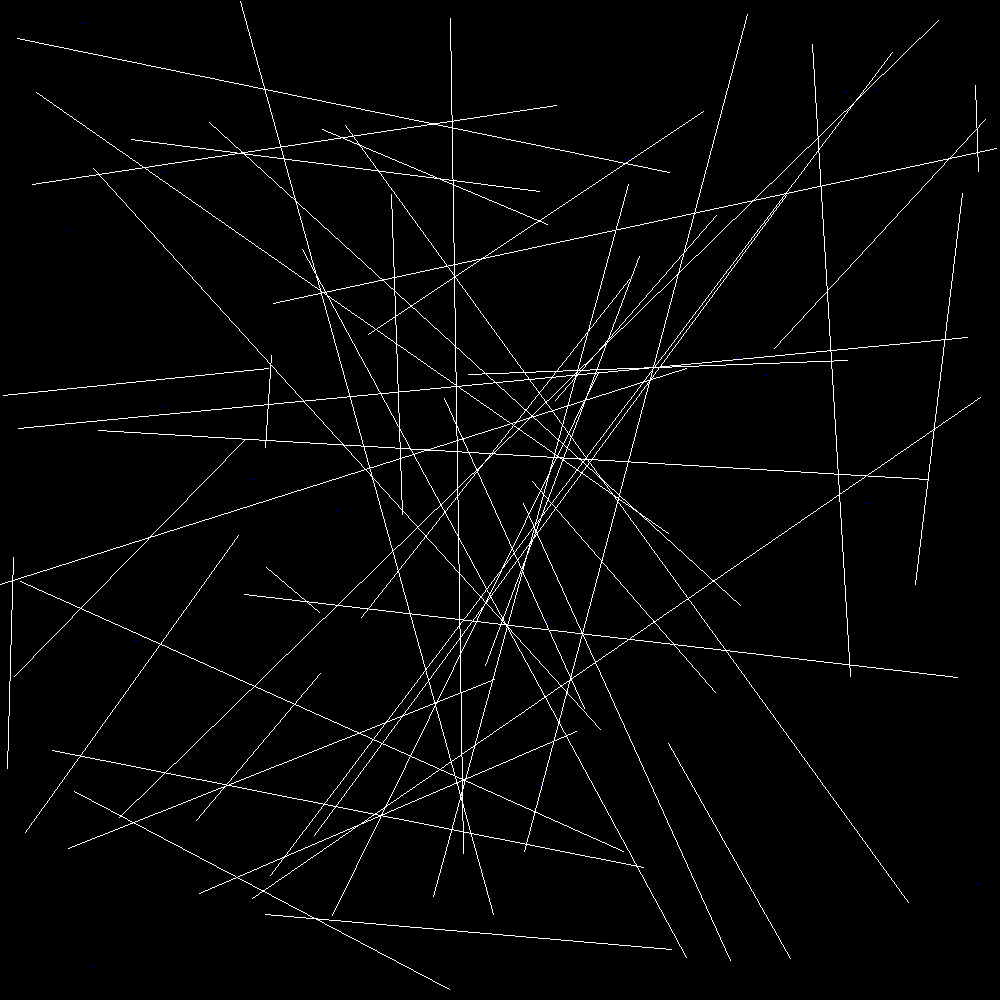
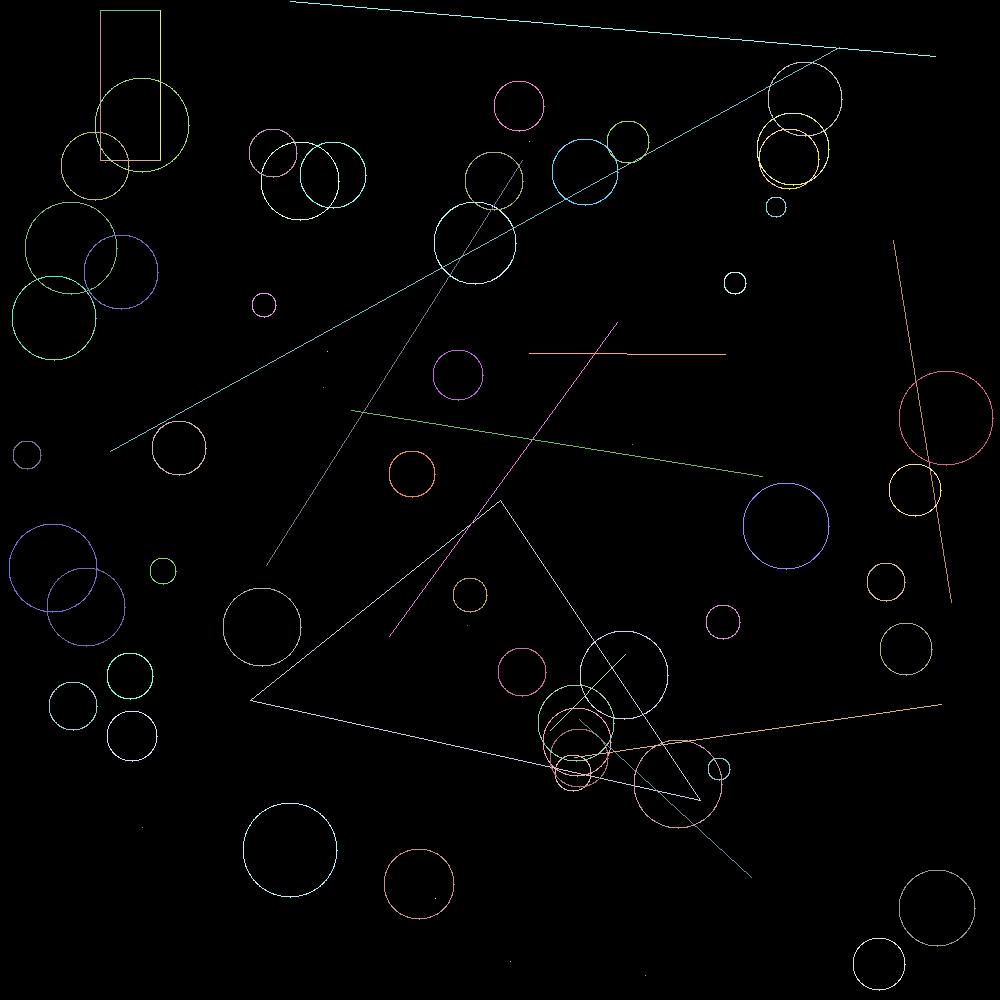
add rec, circle and colors and update old code

diff --git a/drawing/src/geometrical_shapes.rs b/drawing/src/geometrical_shapes.rs
@@ -1,77 +1,196 @@
+use crate::{Color, Image};
 use rand::Rng;
-//creating two traits:
-//Drawable ; contains the methods draw and color;
-use raster::{Color, Image};
+
 pub trait Displayable {
-    fn display(&mut self, x: i32, y: i32, color: Color);
+    fn display(&mut self, x: i32, y: i32, color: &Color);
 }
+
 pub trait Drawable {
-    //draw
     fn draw(&self, image: &mut Image);
-
-    //color
-    // fn color(&self, _: &mut Image);
 }
 
-pub struct Line {
-    pub start: Point,
-    pub end: Point,
-}
-
+// POINT
+#[derive(Debug, Clone, Copy)]
 pub struct Point {
     pub x: i32,
     pub y: i32,
 }
 
-impl Line {
+impl Point {
+    pub fn new(x: i32, y: i32) -> Self {
+        Self { x, y }
+    }
+
     pub fn random(width: i32, height: i32) -> Self {
         let mut rng = rand::thread_rng();
-        let x1 = rng.gen_range(0..width);
-        let y1 = rng.gen_range(0..height);
-        let x2 = rng.gen_range(0..width);
-        let y2 = rng.gen_range(0..height);
-
         Self {
-            start: Point { x: x1, y: y1 },
-            end: Point { x: x2, y: y2 },
+            x: rng.gen_range(0..width),
+            y: rng.gen_range(0..height),
+        }
+    }
+}
+
+impl Drawable for Point {
+    fn draw(&self, image: &mut Image) {
+         let color = get_random_color();
+        image.display(self.x, self.y, &color);
+    }
+}
+
+// LINE
+pub struct Line {
+    pub start: Point,
+    pub end: Point,
+}
+
+impl Line {
+    pub fn new(p1: Point, p2: Point) -> Self {
+        Self { start: p1, end: p2 }
+    }
+    pub fn random(width: i32, height: i32) -> Self {
+        let _rng = rand::thread_rng();
+        Self {
+            start: Point::random(width, height),
+            end: Point::random(width, height),
         }
     }
 }
 
 impl Drawable for Line {
     fn draw(&self, image: &mut Image) {
-        let dx = self.end.x - self.start.x;
-        let dy = self.end.y - self.start.y;
+         let color = get_random_color();
+        draw_line(image, &self.start, &self.end, &color);
+    }
+}
 
-        let steps = dx.abs().max(dy.abs());
+// CERCLE
+pub struct Circle {
+    pub center: Point,
+    pub radius: i32,
+}
 
-        for i in 0..=steps {
-            let t = i as f32 / steps as f32;
-            let x = self.start.x as f32 + t * dx as f32;
-            let y = self.start.y as f32 + t * dy as f32;
+impl Circle {
+    // pub fn new(center: Point, radius: i32) -> Self {
+    //     Self { center, radius }
+    // }
 
-            let white = Color::rgba(255, 255, 255, 255);
-            image.display(x.round() as i32, y.round() as i32, white);
+    pub fn random(width: i32, height: i32) -> Self {
+        let mut rng = rand::thread_rng();
+        let radius = rng.gen_range(10..50);
+        let x = rng.gen_range(radius..(width - radius));
+        let y = rng.gen_range(radius..(height - radius));
+        Self {
+            center: Point { x, y },
+            radius,
         }
     }
 }
 
-impl Point {
-    pub fn new(x: i32, y: i32) -> Self {
-        Self { x: x, y: y }
-    }
-    pub fn random(width: i32, height: i32) -> Self {
-        let mut rng = rand::thread_rng();
-        let x = rng.gen_range(0..width);
-        let y = rng.gen_range(0..height);
-        Self { x, y }
+impl Drawable for Circle {
+    fn draw(&self, image: &mut Image) {
+         let color = get_random_color();
+        for theta in 0..360 {
+            let angle = (theta as f32).to_radians();
+            let x = (self.center.x as f32 + self.radius as f32 * angle.cos()) as i32;
+            let y = (self.center.y as f32 + self.radius as f32 * angle.sin()) as i32;
+            image.display(x, y, &color);
+        }
     }
 }
 
-impl Drawable for Point {
-    fn draw(&self, image: &mut Image) {
-        let red = Color::rgba(0, 0, 255, 255);
-        image.display(self.x, self.y, red);
+// RECT
+pub struct Rectangle {
+    pub top_left: Point,
+    pub bottom_right: Point,
+    pub top_right: Point,
+    pub bottom_left: Point,
+}
+
+impl Rectangle {
+    pub fn new(p1: &Point, p2: &Point) -> Self {
+        let x_min = p1.x.min(p2.x); // 50
+        let mut y_min = p1.y.min(p2.y); // 50
+        let mut x_max = p1.x.max(p2.x); // 150
+        let mut y_max = p1.y.max(p2.y); // 150
+
+        if (x_max - x_min).abs() == (y_max - y_min).abs() {
+            x_max += 50; //TO MAKE IT RECT
+        }
+
+        Self {
+            top_left: Point { x: x_min, y: y_min },    // 50 50
+            bottom_right: Point { x: x_max, y: y_max }, // 150 150
+            top_right: Point { x: x_max, y: y_min },   // 150 50
+            bottom_left: Point { x: x_min, y: y_max }, // 50 150
+        }
     }
 }
-//displayable ; contains the method display
+
+impl Drawable for Rectangle {
+    fn draw(&self, image: &mut Image) {
+        let top = Line::new(self.top_left, self.top_right);
+        let right = Line::new(self.top_right, self.bottom_right);
+        let bottom = Line::new(self.bottom_right, self.bottom_left);
+        let left = Line::new(self.bottom_left, self.top_left);      
+
+        top.draw(image);
+        right.draw(image);
+        bottom.draw(image);
+        left.draw(image);
+    }
+}
+
+
+// TRIANGLE
+pub struct Triangle {
+    pub p1: Point,
+    pub p2: Point,
+    pub p3: Point,
+}
+
+impl Triangle {
+    pub fn new(p1: &Point, p2: &Point, p3: &Point) -> Self {
+        Self {
+            p1: *p1,
+            p2: *p2,
+            p3: *p3,
+        }
+    }
+}
+
+impl Drawable for Triangle {
+    fn draw(&self, image: &mut Image) {
+        let color = get_random_color();
+        draw_line(image, &self.p1, &self.p2, &color);
+        draw_line(image, &self.p2, &self.p3, &color);
+        draw_line(image, &self.p3, &self.p1, &color);
+    }
+}
+
+// DRAW LINE
+fn draw_line(image: &mut Image, start: &Point, end: &Point, color: &Color) {
+    let dx = end.x - start.x;
+    let dy = end.y - start.y;
+    let steps = dx.abs().max(dy.abs());
+
+    if steps == 0 {
+        image.display(start.x, start.y, color);
+        return;
+    }
+
+    for i in 0..=steps {
+        let t = i as f32 / steps as f32;
+        let x = start.x as f32 + t * dx as f32;
+        let y = start.y as f32 + t * dy as f32;
+        image.display(x.round() as i32, y.round() as i32, color);
+    }
+}
+
+
+pub fn get_random_color() -> Color {
+    let mut rng = rand::thread_rng();
+    let r = rng.gen_range(100..=255);
+    let g = rng.gen_range(100..=255);
+    let b = rng.gen_range(100..=255);
+    Color::rgb(r, g, b)
+}

diff --git a/drawing/src/main.rs b/drawing/src/main.rs
@@ -1,44 +1,43 @@
 mod geometrical_shapes;
 
 use geometrical_shapes as gs;
-// use gs::{Displayable, Drawable};
-use crate::geometrical_shapes::*;
+use gs::{Displayable, Drawable};
 use raster::{Color, Image};
+
 fn main() {
     let mut image = Image::blank(1000, 1000);
 
     gs::Line::random(image.width, image.height).draw(&mut image);
 
     gs::Point::random(image.width, image.height).draw(&mut image);
-    // let l = Line::random(image.width, image.height);
-    // l.draw(&mut image);
-    let p = Point { x: 5, y: 5 };
-    p.draw(&mut image);
-    // let rectangle = gs::Rectangle::new(&gs::Point::new(150, 150), &gs::Point::new(50, 50));
-    // rectangle.draw(&mut image);
 
-    // let triangle = gs::Triangle::new (
-    //         &gs::Point::new(500, 500),
-    //         &gs::Point::new(250, 700),
-    //         &gs::Point::new(700, 800),
-    // );
-    // triangle.draw(&mut image);
+    let rectangle = gs::Rectangle::new(&gs::Point::new(160, 160), &gs::Point::new(100, 10));
+    rectangle.draw(&mut image);
+
+    let triangle = gs::Triangle::new(
+        &gs::Point::new(500, 500),
+        &gs::Point::new(250, 700),
+        &gs::Point::new(700, 800),
+    );
+    triangle.draw(&mut image);
 
     for _ in 1..50 {
+        gs::Circle::random(image.width, image.height).draw(&mut image);
+    }
+
+        for _ in 1..10 {
         gs::Point::random(image.width, image.height).draw(&mut image);
     }
-
-    for _ in 1..50 {
+    for _ in 1..10 {
         gs::Line::random(image.width, image.height).draw(&mut image);
     }
-
     raster::save(&image, "image.png").unwrap();
 }
 
 impl Displayable for Image {
-    fn display(&mut self, x: i32, y: i32, color: Color) {
+    fn display(&mut self, x: i32, y: i32, color: &Color) {
         if x >= 0 && x < self.width && y >= 0 && y < self.height {
-            self.set_pixel(x, y, color).unwrap();
+            self.set_pixel(x, y, color.clone()).unwrap();
         }
     }
 }
